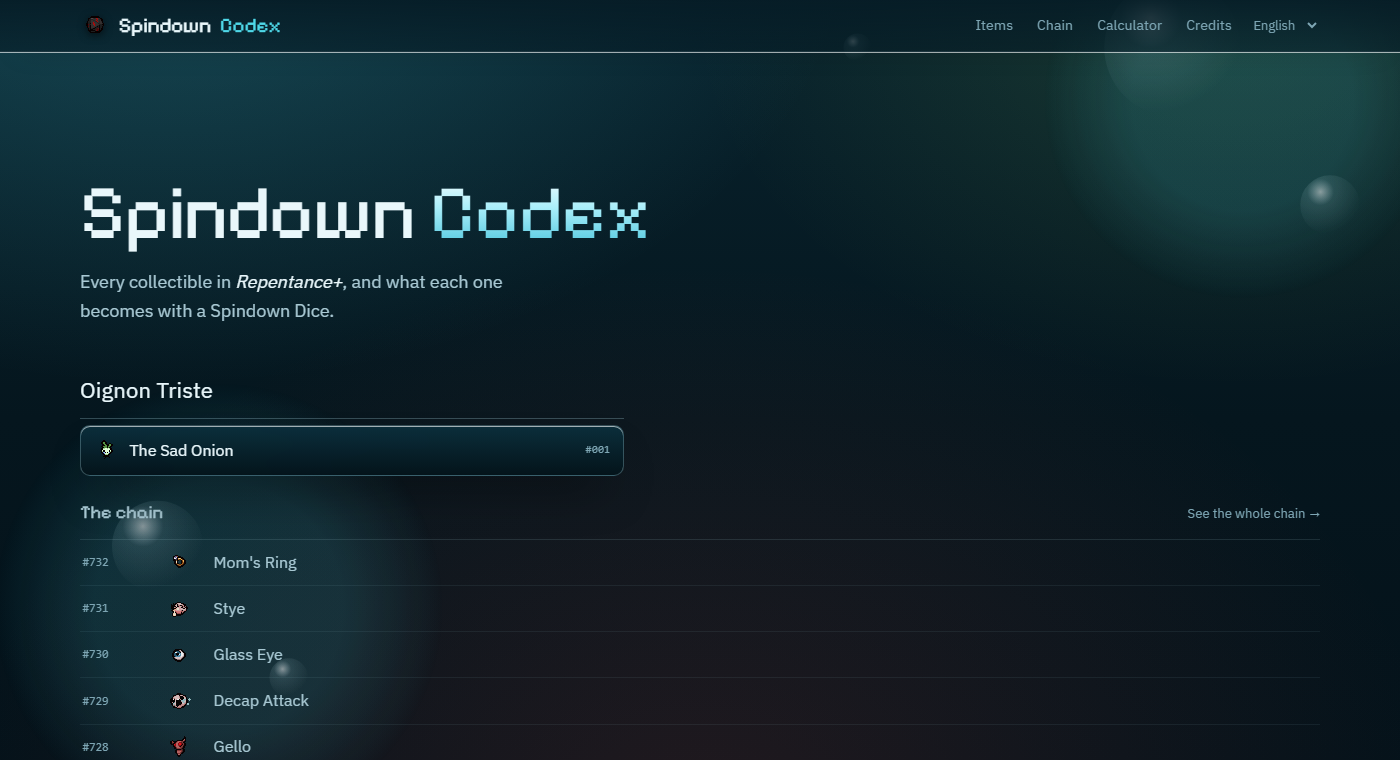
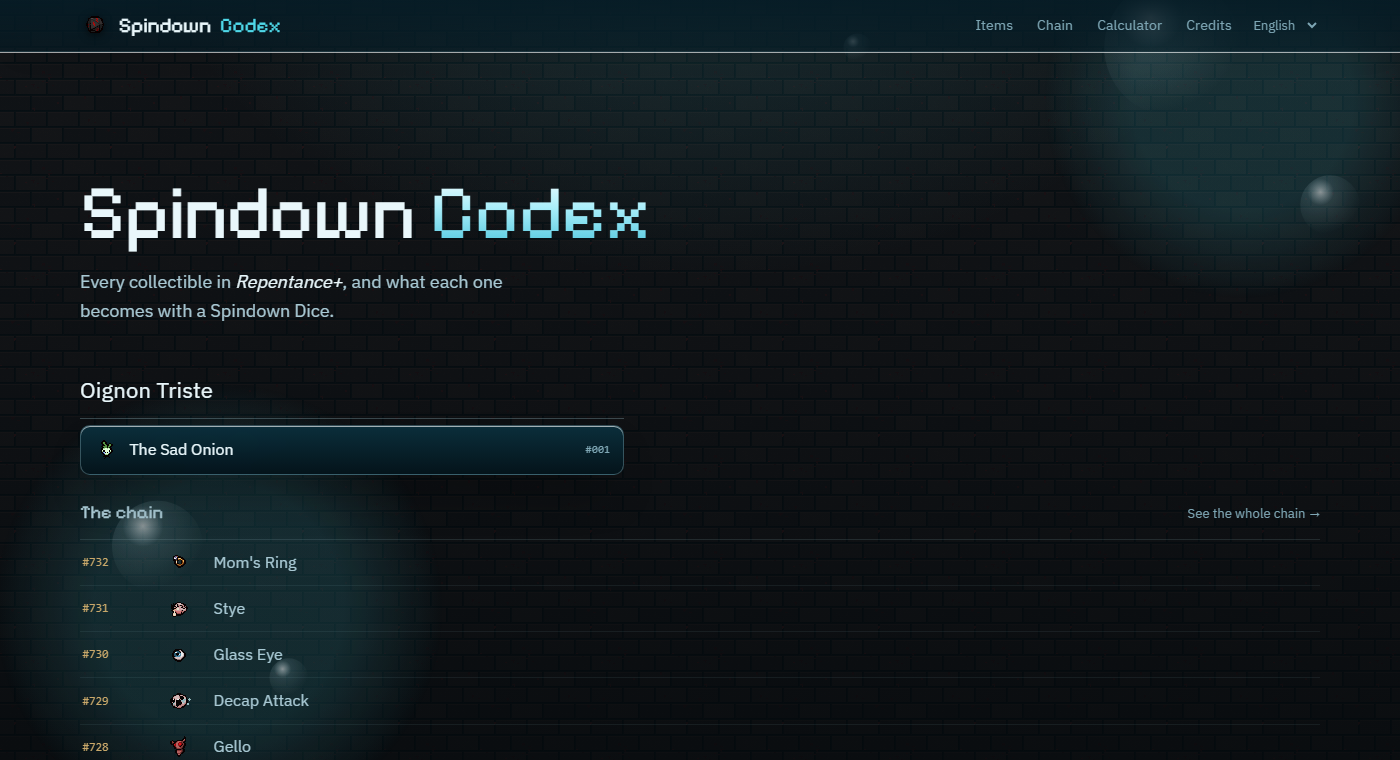
Fond de cave, identifiants dores, chiffre lisible
- texture pixel-art de carrelage de cave generee par scripts/make-bg.py, posee
  sous un voile profond ; le chemin passe par url() donc le sous-dossier GitHub
  reste correct
- les identifiants prennent la teinte or du jeu
- le nombre du calculateur quitte Pixelify : ses chiffres sont des traits fins
  et paraissaient delaves. Il passe en Plex demi-gras, creme, tabulaire.

Changed region(s): [[0.0, 0.0605, 0.3686, 0.3934], [0.7371, 0.0605, 1.0, 0.2118], [0.0921, 0.575, 0.1536, 0.6053]]

diff --git a/src/styles/global.css b/src/styles/global.css
@@ -91,13 +91,17 @@ body {
   min-height: 100vh;
   display: flex;
   flex-direction: column;
-  background-color: var(--deep);
+  background-color: #0a0709;
+  /* Le carrelage de cave sous un voile profond : la texture se devine,
+     elle ne dispute pas la lecture au texte. */
   background-image:
-    radial-gradient(1100px 720px at 12% -8%, rgba(79, 216, 232, 0.22), transparent 62%),
-    radial-gradient(900px 620px at 88% 2%, rgba(155, 227, 86, 0.12), transparent 60%),
-    radial-gradient(1200px 900px at 50% 108%, rgba(208, 69, 60, 0.14), transparent 62%),
-    linear-gradient(180deg, #08232e 0%, #05161e 55%, #04121a 100%);
+    radial-gradient(900px 620px at 50% -14%, rgba(79, 216, 232, 0.16), transparent 62%),
+    linear-gradient(180deg, rgba(6, 18, 24, 0.74) 0%, rgba(5, 14, 19, 0.8) 55%, rgba(4, 11, 15, 0.88) 100%),
+    var(--tile, none);
+  background-size: auto, auto, 96px 96px;
+  background-repeat: no-repeat, no-repeat, repeat;
   background-attachment: fixed;
+  image-rendering: pixelated;
   color: var(--ink);
   font-family: var(--font-body);
   font-size: 16px;
@@ -468,7 +472,7 @@ main {
 
 .spine__id {
   font-size: 0.74rem;
-  color: var(--ink-faint);
+  color: #c9a86a;
   transition: color var(--dur) var(--ease);
 }
 

diff --git a/scripts/make-bg.py b/scripts/make-bg.py
@@ -1,0 +1,77 @@
+"""Genere la tuile de fond : un carrelage de cave en pixel-art.
+
+Palette d'Isaac : brun tres sombre, ocre, sang seche.
+La tuile doit etre raccordable (briques decalees, bords qui bouclent).
+Sortie : public/bg/cellar.png
+"""
+
+from pathlib import Path
+
+from PIL import Image
+
+ROOT = Path(__file__).resolve().parent.parent
+OUT = ROOT / "public" / "bg" / "cellar.png"
+
+SIZE = 96  # 6 briques de 16 px
+BRICK_H = 16
+BRICK_W = 32
+OFFSET = 16
+
+MORTAR = (20, 14, 12)
+FACES = [(52, 27, 22), (60, 33, 26), (45, 23, 19), (56, 30, 24)]
+EDGE_LIGHT = (78, 42, 33)
+EDGE_DARK = (10, 6, 5)
+BLOOD = [(92, 20, 16), (74, 15, 12), (110, 26, 20)]
+
+# Graine fixe : le motif ne doit pas changer d'un build a l'autre.
+import random
+
+rng = random.Random(20261017)
+
+img = Image.new("RGB", (SIZE, SIZE), MORTAR)
+px = img.load()
+
+
+def put(x, y, colour):
+    px[x % SIZE, y % SIZE] = colour
+
+
+# Briques
+row = 0
+y = 0
+while y < SIZE:
+    shift = OFFSET if row % 2 else 0
+    x = -shift
+    while x < SIZE:
+        face = FACES[rng.randrange(len(FACES))]
+        for by in range(BRICK_H - 1):
+            for bx in range(BRICK_W - 2):
+                # Leger bruit pour casser l'aplat.
+                c = face
+                if rng.random() < 0.07:
+                    c = (face[0] + 6, face[1] + 3, face[2] + 3)
+                put(x + bx, y + by, c)
+        # Arete haute claire, bas sombre, joint a droite
+        for bx in range(BRICK_W - 2):
+            put(x + bx, y, EDGE_LIGHT)
+            put(x + bx, y + BRICK_H - 2, EDGE_DARK)
+        for by in range(BRICK_H - 1):
+            put(x + BRICK_W - 2, y + by, EDGE_DARK)
+        x += BRICK_W
+    y += BRICK_H
+    row += 1
+
+# Taches de sang seche, en petits amas de pixels
+for _ in range(14):
+    cx, cy = rng.randrange(SIZE), rng.randrange(SIZE)
+    colour = BLOOD[rng.randrange(len(BLOOD))]
+    for dx in range(rng.randint(2, 4)):
+        for dy in range(rng.randint(1, 3)):
+            put(cx + dx, cy + dy, colour)
+    if rng.random() < 0.35:
+        for dx in range(rng.randint(1, 3)):
+            put(cx + 6 + dx, cy + 3, BLOOD[1])
+
+OUT.parent.mkdir(parents=True, exist_ok=True)
+img.save(OUT, optimize=True)
+print(f"{OUT}  ({SIZE}x{SIZE}, {OUT.stat().st_size} octets)")
